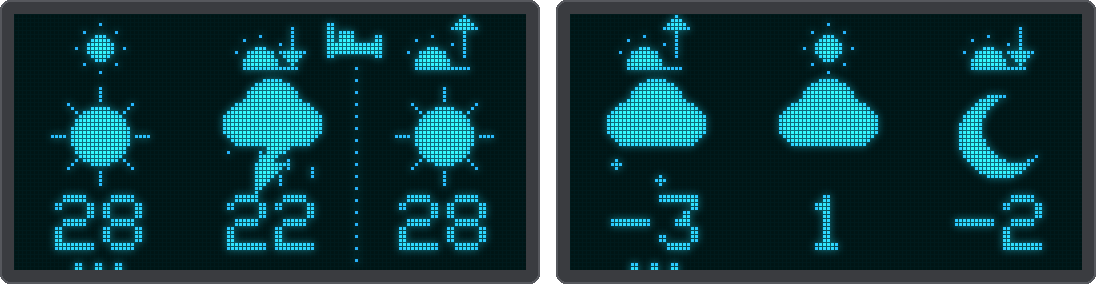
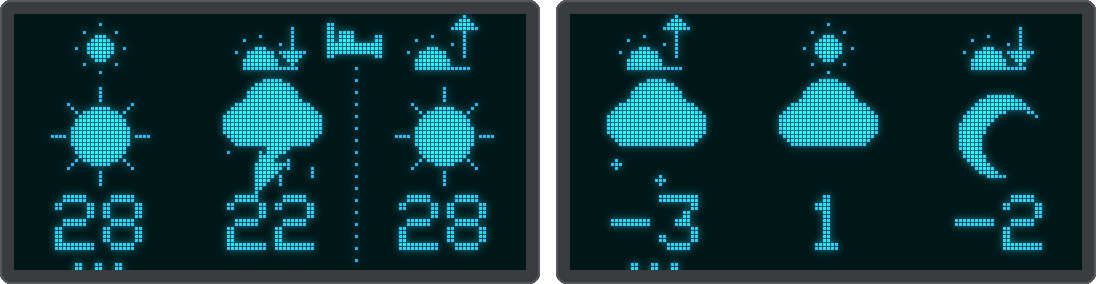
Leaves blow off the right edge instead of vanishing mid-screen; the moon's bright edge peeks out of the clouds
A slow leaf (gusts of 20-30 km/h) reached its lowest line about halfway across the kids screens and was
dropped there. A leaf now sinks no lower than that line and always leaves at the right edge, and when the
wind drops the leaves on their way finish their run instead of disappearing at once.

The crescent moon of the weather pictures had its bright side at the lower left, where the clouds cover it.
Its bite now comes from the lower right, so the bright edge stays out of the clouds.

Claude-Session: https://claude.ai/code/session_01BgTn1WcpSUXFywgbLdTvzG

Changed region(s): [[0.8686, 0.507, 0.9617, 0.6479], [0.8686, 0.3099, 0.9617, 0.4507]]

diff --git a/firmware/src/display.cpp b/firmware/src/display.cpp
@@ -433,8 +433,8 @@ void updateWindAnimation(int windKmh, bool gustsOn, bool leavesOn) {
         if (f.active) {
             f.age++;
             f.x += f.speed;
-            if (f.age % 3 == 0) f.yBase++;                             // sinks slowly
-            if (f.x > windArea->xEnd || f.yBase > windArea->leafMaxY) {
+            if (f.age % 3 == 0 && f.yBase < windArea->leafMaxY) f.yBase++;   // sinks slowly, down to leafMaxY
+            if (f.x > windArea->xEnd) {                                // and always blows off the right edge
                 f.active = false;
                 f.delay = random(21);
             }
@@ -451,6 +451,12 @@ void updateWindAnimation(int windKmh, bool gustsOn, bool leavesOn) {
             }
         }
     }
+}
+
+bool windAnimationBusy() {
+    for (int i = 0; i < MAX_GUSTS; i++) if (gusts[i].active) return true;
+    for (int i = 0; i < MAX_LEAVES; i++) if (leaves[i].active) return true;
+    return false;
 }
 
 void drawWindAnimation(Adafruit_SSD1306 &display) {
@@ -1007,9 +1013,11 @@ static void drawSmallSun(Adafruit_SSD1306 &d, int cx, int cy, int r) {
     }
 }
 
-static void drawSmallMoon(Adafruit_SSD1306 &d, int cx, int cy, int r) {
+// A crescent. biteDown: the bite is taken from the lower right, so the moon's bright edge is its upper left, the
+// side that stays out of the clouds of the weather pictures (they sit at its lower right, and rise over it)
+static void drawSmallMoon(Adafruit_SSD1306 &d, int cx, int cy, int r, bool biteDown = false) {
     d.fillCircle(cx, cy, r, SSD1306_WHITE);
-    d.fillCircle(cx + r * 2 / 5, cy - r / 4, r * 5 / 6, SSD1306_BLACK);   // bite out of it: a crescent
+    d.fillCircle(cx + r * 2 / 5, biteDown ? cy + r / 4 : cy - r / 4, r * 5 / 6, SSD1306_BLACK);   // bite: a crescent
 }
 
 // Sun half under the horizon, centred on cx with the horizon at hy: the sun setting
@@ -1028,7 +1036,7 @@ static void drawSettingSun(Adafruit_SSD1306 &d, int cx, int hy, int r, int horiz
 
 // The sky light of a clear picture: sun, setting sun or moon
 static void drawSmallSky(Adafruit_SSD1306 &d, int cx, int cy, int r, int light) {
-    if (light == KIDS_LIGHT_DARK) drawSmallMoon(d, cx, cy, r + r / 2);
+    if (light == KIDS_LIGHT_DARK) drawSmallMoon(d, cx, cy, r + r / 2, true);
     else if (light == KIDS_LIGHT_DUSK) drawSettingSun(d, cx, cy + r, r + 1, r + 6);
     else drawSmallSun(d, cx, cy, r);
 }

diff --git a/firmware/include/display.h b/firmware/include/display.h
@@ -56,7 +56,7 @@ struct WindArea {
     int16_t gustYTop, gustYSpan;   // gust lanes
     int16_t leafX0;                // a new leaf enters here
     int16_t leafY0, leafYSpan;     // ... at y = leafY0 .. leafY0 + leafYSpan - 1
-    int16_t leafMaxY;              // a leaf that sinks past this base line has landed
+    int16_t leafMaxY;              // a leaf sinks no lower than this base line (it leaves at the right edge)
     bool    inverseLeaves;         // drawn inverted (over filled pictures) instead of with a black outline
 };
 // The ride screen: the right half, right of the divider at x=64 (the ride badge is never touched)
@@ -118,6 +118,7 @@ struct Leaf {
 void initWindAnimation(const WindArea &area = WIND_AREA_RIDE);   // also picks where it blows
 void updateWindAnimation(int windKmh, bool gustsOn, bool leavesOn);
 void drawWindAnimation(Adafruit_SSD1306 &display);
+bool windAnimationBusy();   // a gust or leaf is still on its way across
 
 // Rain animation functions
 void initRainAnimation();

diff --git a/tools/bitmaptool/wind.py b/tools/bitmaptool/wind.py
@@ -99,9 +99,9 @@ class WindAnimation:
             if f.active:
                 f.age += 1
                 f.x += f.speed
-                if f.age % 3 == 0:
-                    f.y_base += 1                                      # sinks slowly
-                if f.x > area.x_end or f.y_base > area.leaf_max_y:
+                if f.age % 3 == 0 and f.y_base < area.leaf_max_y:
+                    f.y_base += 1                                      # sinks slowly, down to leaf_max_y
+                if f.x > area.x_end:                                   # and always blows off the right edge
                     f.active = False
                     f.delay = rng.randrange(21)
             elif i < want_leaves:

diff --git a/tools/bitmaptool/constants.py b/tools/bitmaptool/constants.py
@@ -40,7 +40,7 @@ LEAF_SPAWN_X = WIND_AREA_X_START   # leaves enter at the left edge of the area
 LEAF_SPAWN_Y = 12       # a new leaf starts at y = 12 .. 35
 LEAF_SPAWN_SPAN = 24
 LEAF_MIN_WIND_KMH = 20  # in autumn leaves blow from this wind speed on, even when it is not a "windy" day
-LEAF_MAX_Y = 38         # a leaf whose base line passes this has landed
+LEAF_MAX_Y = 38         # a leaf sinks no lower than this base line; it leaves at the right edge
 
 # The kids screens have no gusts; their leaves blow across the whole screen (WIND_AREA_KIDS in display.cpp)
 KIDS_WIND_AREA_X_START = 0

diff --git a/firmware/src/main.cpp b/firmware/src/main.cpp
@@ -1357,6 +1357,9 @@ void loop() {
                 startWindAnimation(WIND_AREA_KIDS);
                 updateWindAnimation((int)w.gustKmh, false, true);
                 state.displayDirty = true;
+            } else if (state.windAnimationActive && windAnimationBusy()) {
+                updateWindAnimation((int)w.gustKmh, false, false);   // the wind dropped: the leaves on their way blow off
+                state.displayDirty = true;
             } else if (state.windAnimationActive) {
                 stopWindAnimation();
             }
